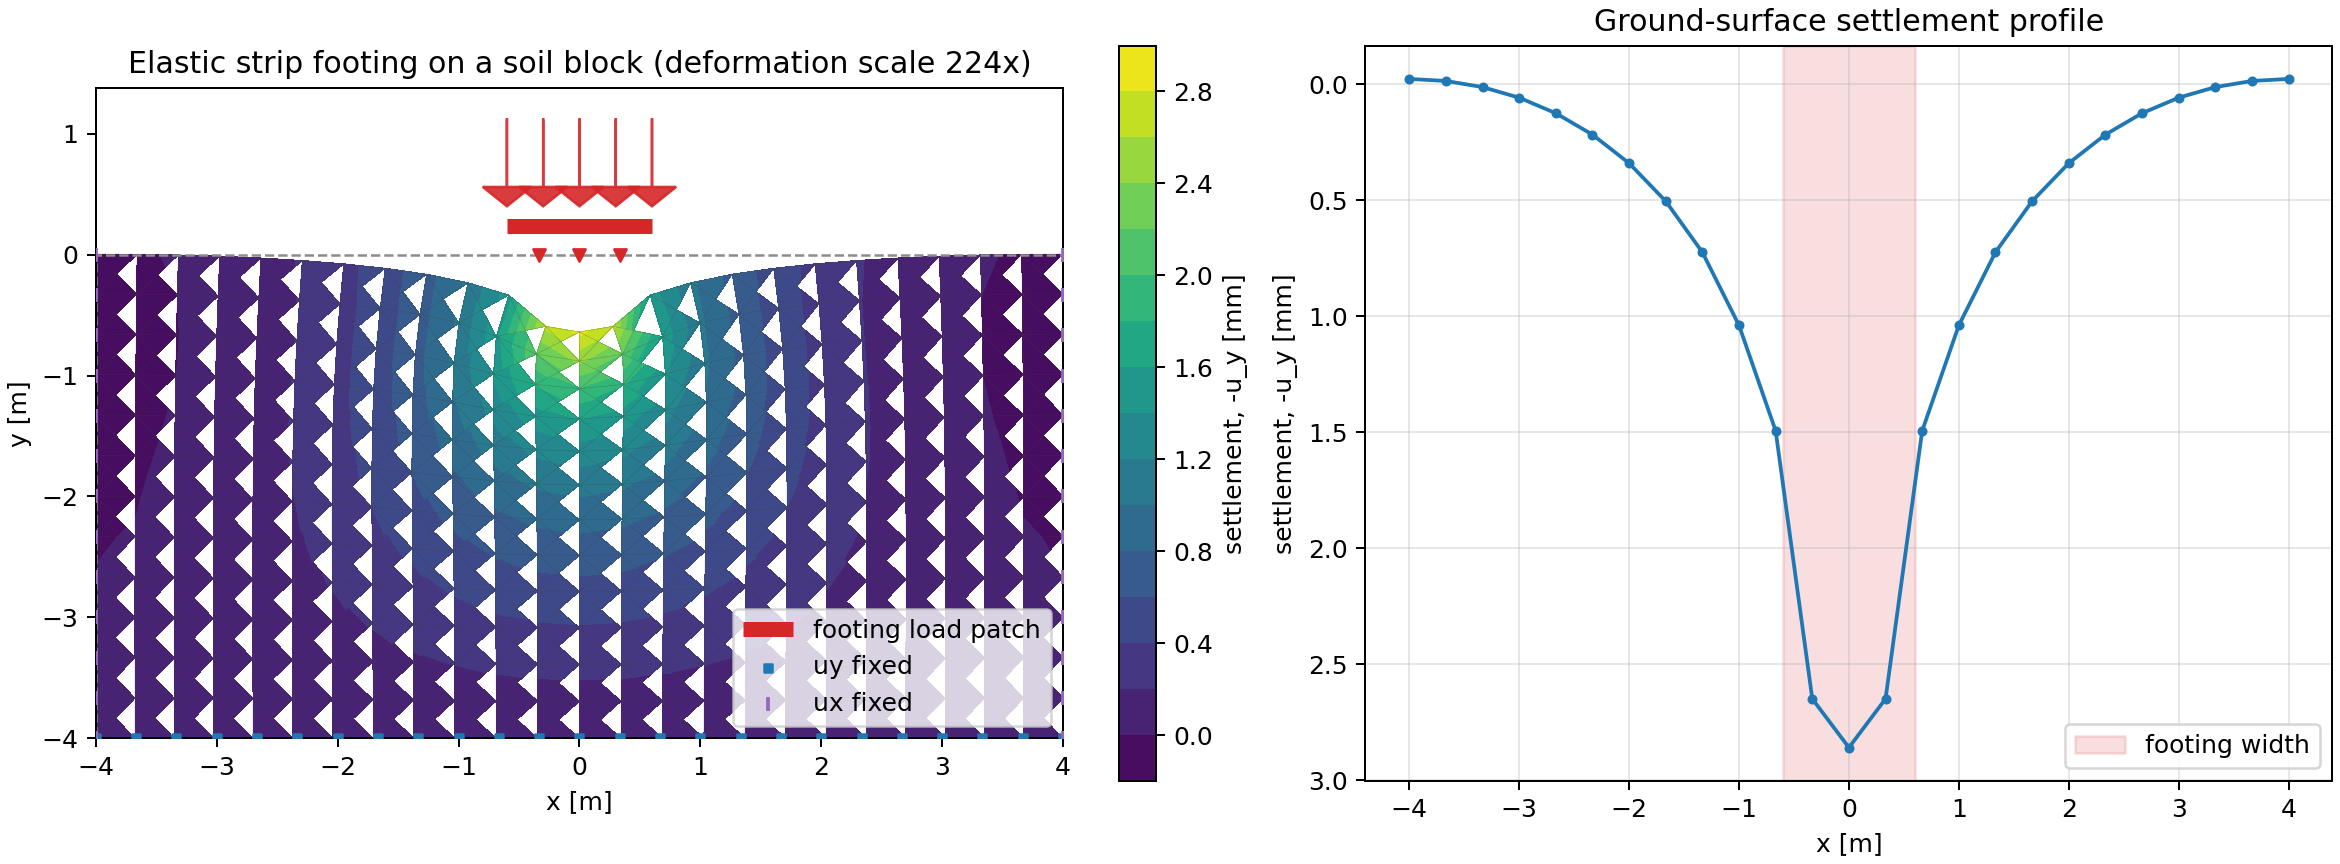
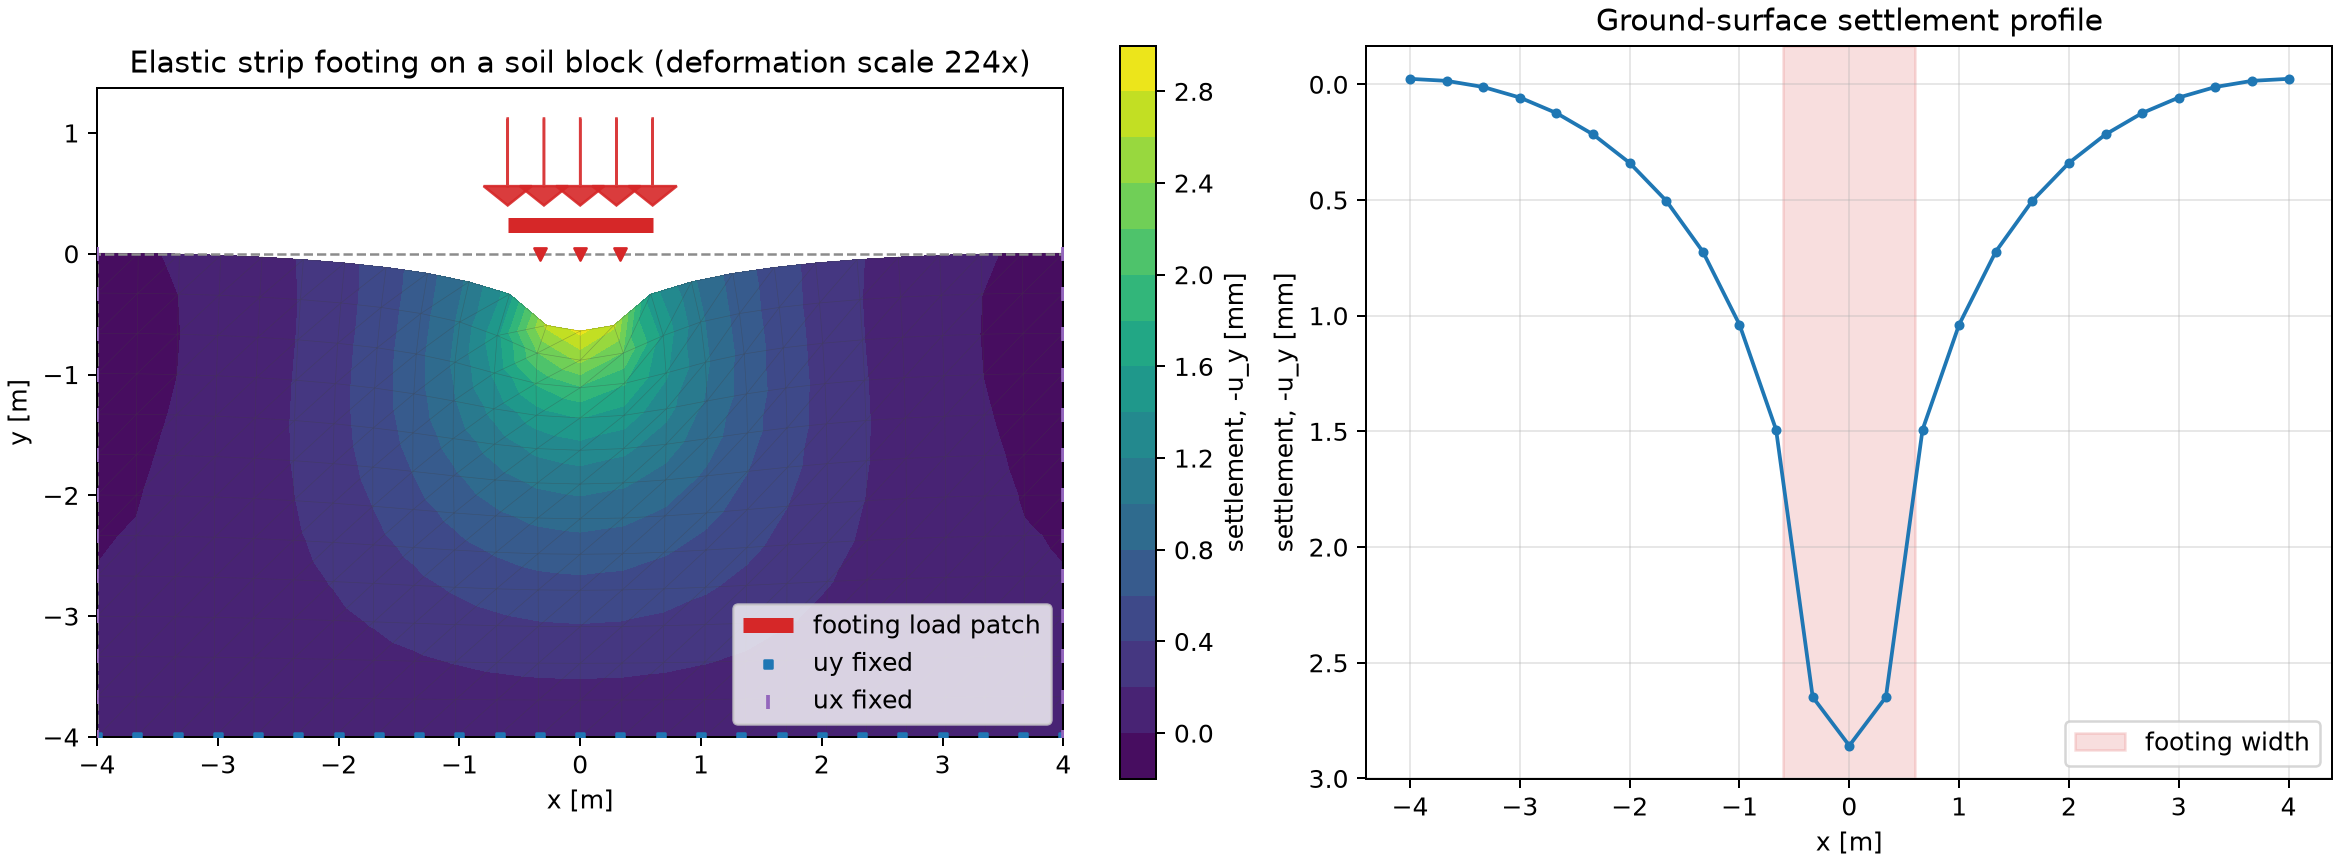
fix(examples): split quads along BL-TR diagonal for plotting
The strip-footing visualization helper ``_triangles_from_mesh`` split
each quad ``[BL, BR, TR, TL]`` (stored in FEniCS CCW order as
``[0, 1, 3, 2]``) into ``[0,1,2] + [0,2,3]``. Those two triangles share
the *left edge* of the quad rather than a diagonal, so they overlap on
the BL side of the cell and leave the TR side uncovered — producing the
bowtie pattern visible under the footing in both rendered examples.

Switching to ``[0,1,3] + [0,3,2]`` cuts each quad cleanly along its
BL-TR diagonal, so the rendered settlement field and plastic-history
plots are uniformly tiled.

Same fix applied to:

  * ``examples/solid/geomechanics/drucker_prager_footing/drucker_prager_footing.py``
  * ``examples/solid/geomechanics/elastic_footing/elastic_footing.py``

Both bundled doc figures regenerated with the corrected split:

  * ``docs/source/_static/solid_mechanics/drucker_prager_footing.png``
  * ``docs/source/_static/solid_mechanics/elastic_footing.png``

diff --git a/examples/solid/geomechanics/drucker_prager_footing/drucker_prager_footing.py b/examples/solid/geomechanics/drucker_prager_footing/drucker_prager_footing.py
@@ -512,8 +512,13 @@ def _triangles_from_mesh(mesh) -> "object":
         if arr.shape[1] == 3:
             triangles.append(arr)
         elif arr.shape[1] == 4:
-            triangles.append(arr[:, [0, 1, 2]])
-            triangles.append(arr[:, [0, 2, 3]])
+            # TensorMesh stores quads in FEniCS CCW order [BL, BR, TR, TL]
+            # = node indices [0, 1, 3, 2]. The two non-overlapping triangles
+            # along the BL-TR diagonal are [0, 1, 3] and [0, 3, 2]; the naive
+            # [0,1,2]+[0,2,3] split produces the bowtie pattern reported in
+            # plots of these examples.
+            triangles.append(arr[:, [0, 1, 3]])
+            triangles.append(arr[:, [0, 3, 2]])
     if not triangles:
         raise RuntimeError("No triangular or quadrilateral cells found for plotting.")
     return np.vstack(triangles)

diff --git a/examples/solid/geomechanics/elastic_footing/elastic_footing.py b/examples/solid/geomechanics/elastic_footing/elastic_footing.py
@@ -253,8 +253,13 @@ def _triangles_from_mesh(mesh) -> "object":
         if arr.shape[1] == 3:
             triangles.append(arr)
         elif arr.shape[1] == 4:
-            triangles.append(arr[:, [0, 1, 2]])
-            triangles.append(arr[:, [0, 2, 3]])
+            # TensorMesh stores quads in FEniCS CCW order [BL, BR, TR, TL]
+            # = node indices [0, 1, 3, 2]. The two non-overlapping triangles
+            # along the BL-TR diagonal are [0, 1, 3] and [0, 3, 2]; the naive
+            # [0,1,2]+[0,2,3] split produces the bowtie pattern reported in
+            # plots of these examples.
+            triangles.append(arr[:, [0, 1, 3]])
+            triangles.append(arr[:, [0, 3, 2]])
 
     if not triangles:
         raise RuntimeError("No triangular or quadrilateral cells found for plotting.")